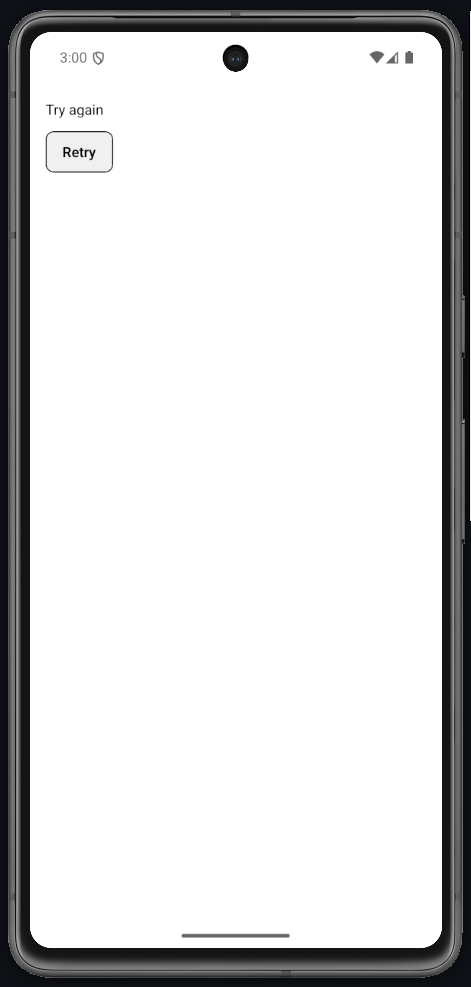
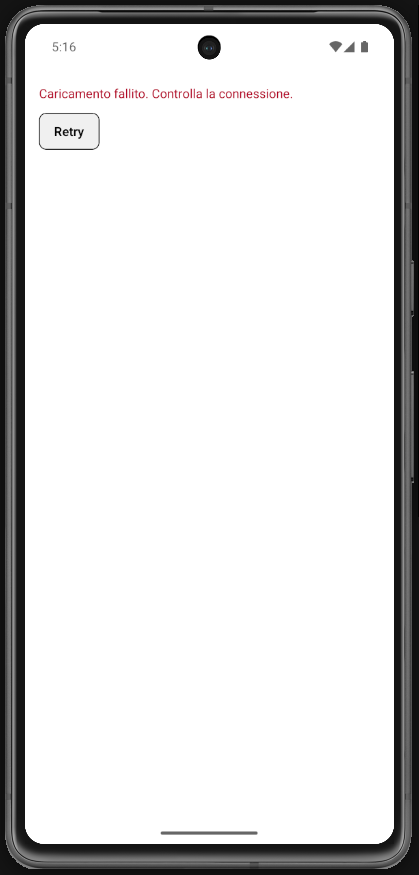
aggiornamento lab 15

Changed region(s): [[0.0, 0.0, 1.0, 1.0], [0.0931, 0.0926, 0.3413, 0.1851]]

diff --git a/labs/15_rest-calls-and-async-ui-workflows.md b/labs/15_rest-calls-and-async-ui-workflows.md
@@ -1,10 +1,10 @@
-# Lab 15 - REST calls e workflow asincroni con stati UI
+# Lab 15 - REST calls e workflow asincroni (Italian Meals App)
 
 ## Obiettivo
 
-- Carica dati da REST API con `fetch` e mostra in `FlatList`.
+- Caricare **piatti italiani** da [TheMealDB](https://www.themealdb.com/api.php) con `fetch` e mostrarli in `FlatList`.
 - Un solo oggetto stato con `status` (loading / error / success).
-- Gestisci almeno un edge case con un messaggio chiaro.
+- Gestire almeno un edge case con messaggio chiaro e pulsante **Retry**.
 
 ## Timebox
 
@@ -16,62 +16,99 @@
 - VS Code e Git
 - Expo oppure React Native CLI (Android)
 - Android emulator oppure telefono reale
+- **Lab 13–14 completati** (navigazione Lista → Dettaglio con `idMeal`)
 
 ## Scenario
 
-Carica dati da JSONPlaceholder, incapsula fetch in `services/`, modella la UI con un singolo oggetto stato e pulsante Retry.
+Continua lo sviluppo della **Italian Meals App** (progetto finale). Dopo login e navigazione (lab 13–14), la schermata **Lista piatti** deve caricare dati reali da TheMealDB, mostrare stati UI espliciti e permettere il **Retry** in caso di errore di rete.
 
-> **Perché questo lab:** esercitare i pattern della lezione 15 in una mini-app concreta.
+> **Perché questo lab:** ogni lezione 15–21 aggiunge un pezzo del **progetto finale**. Qui implementi API + stati asincroni sulla lista (e opzionalmente sul dettaglio).
+
+## Documentazione API (consulta sempre)
+
+- https://www.themealdb.com/documentation
+- https://www.themealdb.com/api.php
+
+| Endpoint              | URL                                                                 |
+| --------------------- | ------------------------------------------------------------------- |
+| Lista piatti italiani | `GET https://www.themealdb.com/api/json/v1/1/filter.php?a=Italian`  |
+| Dettaglio piatto      | `GET https://www.themealdb.com/api/json/v1/1/lookup.php?i={idMeal}` |
+
+Risposta lista: `meals[]` con `idMeal`, `strMeal`, `strMealThumb`.
+
+### Esempio fetch (`services/mealsApi.ts`)
+
+```ts
+const BASE = "https://www.themealdb.com/api/json/v1/1";
+
+export async function fetchItalianMeals() {
+  const res = await fetch(`${BASE}/filter.php?a=Italian`);
+  if (!res.ok) throw new Error(`HTTP ${res.status}`);
+  const data = await res.json();
+  return data.meals ?? [];
+}
+
+export async function fetchMealById(id: string) {
+  const res = await fetch(`${BASE}/lookup.php?i=${id}`);
+  if (!res.ok) throw new Error(`HTTP ${res.status}`);
+  const data = await res.json();
+  return data.meals?.[0] ?? null;
+}
+```
 
 ## Cosa imparerai
 
-1. Come usare `fetch` con controllo `res.ok`.
-2. Come gestire errori HTTP (non trattarli come successo).
-3. Come usare un singolo oggetto stato `{ status, items, message }`.
-4. Come mostrare `ActivityIndicator`, errore con Retry e lista con `FlatList`.
+1. Come incapsulare `fetch` in `services/mealsApi.ts` con controllo `res.ok`.
+2. Come modellare `{ status, items, message }` in `MealsListScreen`.
+3. Come riusare lo stesso pattern in `MealDetailScreen` con `{ status, meal, message }`.
+4. Come mostrare `ActivityIndicator`, errore + Retry e `FlatList` di piatti.
 
 ## Passi
 
-1. **Avvia progetto** - verifica che l'app parta.
-2. **services/posts.ts** - `loadPosts()` con `fetch` da `jsonplaceholder.typicode.com/posts?_limit=5` e controllo `res.ok`.
-3. **Stato unico** - `const [state, setState] = React.useState({ status: "idle", items: [], message: "" })`.
-4. **load()** - Imposta `loading`, poi `success` o `error` con messaggio.
-5. **UI condizionale** - `ActivityIndicator` per loading, messaggio + Retry per error, `FlatList` per success.
-6. **Edge case** - Simula errore (URL sbagliata) e mostra Retry funzionante.
+1. **services/mealsApi.ts** - `fetchItalianMeals` e `fetchMealById` (vedi esempio sopra).
+2. **types/meal.ts** - `MealSummary`, `MealsListState`, `MealDetailState` con `LoadStatus`.
+3. **MealsListScreen** - stato unico `{ status, items, message }`; funzione `loadMeals()` in `useEffect` al mount.
+4. **UI condizionale** - `LoadingView` / `ErrorView` con Retry / `FlatList` con `MealCard` (thumbnail + nome).
+5. **MealDetailScreen** - stesso pattern asincrono per `lookup.php`; mostra immagine, titolo, ingredienti o istruzioni.
+6. **Edge case** - Simula errore (URL sbagliata o rete off) → messaggio + Retry funzionante. Lista vuota (`meals: null`) → testo «Nessun piatto italiano disponibile».
 
 ## Screenshot attesi
 
-**Posts caricati - dati da REST API con fetch**
+**Lista piatti caricata - dati da TheMealDB**
 
-![Lab 15 - Posts caricati](imgs/lab_15_main.png)
+![Lab 15 - Lista piatti](../labs/imgs/lab_15_main.png)
 
-**Stato errore - errore HTTP con pulsante Retry**
+**Stato errore - errore HTTP/rete con pulsante Retry**
 
-![Lab 15 - Stato errore](imgs/lab_15_error.png)
+![Lab 15 - Stato errore](../labs/imgs/lab_15_error.png)
 
 **Workflow asincrono - stati loading / success / error**
 
-![Lab 15 - Workflow asincrono](imgs/lab_15_workflow.png)
+![Lab 15 - Workflow asincrono](../labs/imgs/lab_15_workflow.png)
 
 ## Consegna minima
 
-- App che parte su emulatore o device
-- UI chiara con un solo stato attivo alla volta
-- Retry funzionante dopo errore HTTP
+- App **Italian Meals** che parte su emulatore o device
+- Lista piatti italiani da API reale
+- Dettaglio piatto con fetch su `idMeal`
+- Un solo stato attivo alla volta (loading / error / success)
+- Retry funzionante dopo errore
 
 ## Checkpoint
 
 - [ ] Avvio progetto senza errori
-- [ ] Fetch con controllo `res.ok`
-- [ ] Stati loading / error / success espliciti
+- [ ] `fetch` con controllo `res.ok` in `services/mealsApi.ts`
+- [ ] Stati loading / error / success espliciti su Lista (e Dettaglio)
 - [ ] Edge case gestito con messaggio chiaro
-- [ ] Cleanup completato
+- [ ] Screenshot in Google Doc (riga **Lab 15**)
 
 ## Problemi comuni
 
 - Se Metro non parte: chiudi processi in ascolto e riavvia `npx expo start`.
 - Se l'emulatore è lento: verifica virtualizzazione/KVM/Hyper-V o usa device reale.
 - Se l'app non si connette: controlla che PC e device siano sulla stessa rete (LAN).
+- Se la lista è vuota: verifica l'URL `filter.php?a=Italian` (area con la A maiuscola).
+- Se il dettaglio non carica: usa un `idMeal` dalla lista italiana (es. `52772`), non id di altre aree.
 
 ## Cleanup
 
@@ -80,7 +117,7 @@ Carica dati da JSONPlaceholder, incapsula fetch in `services/`, modella la UI co
 
 ## Search terms
 
+- themealdb api react native
 - fetch api react native
-- jsonplaceholder posts
 - react native loading state
-- activityindicator react native
+- activityindicator flatlist
